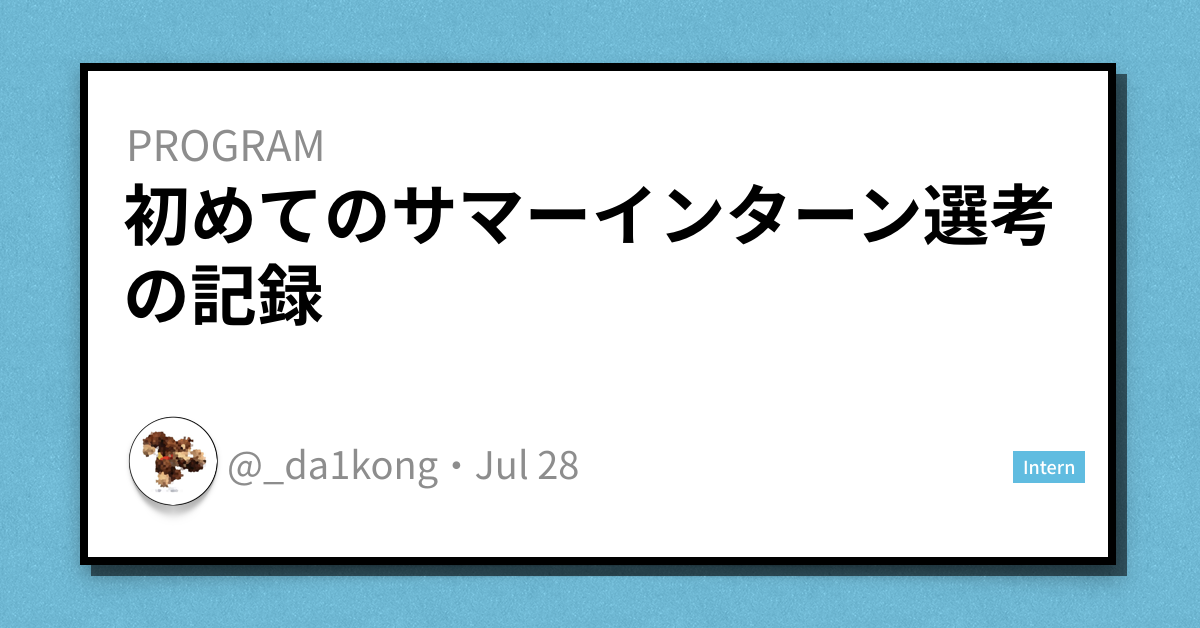
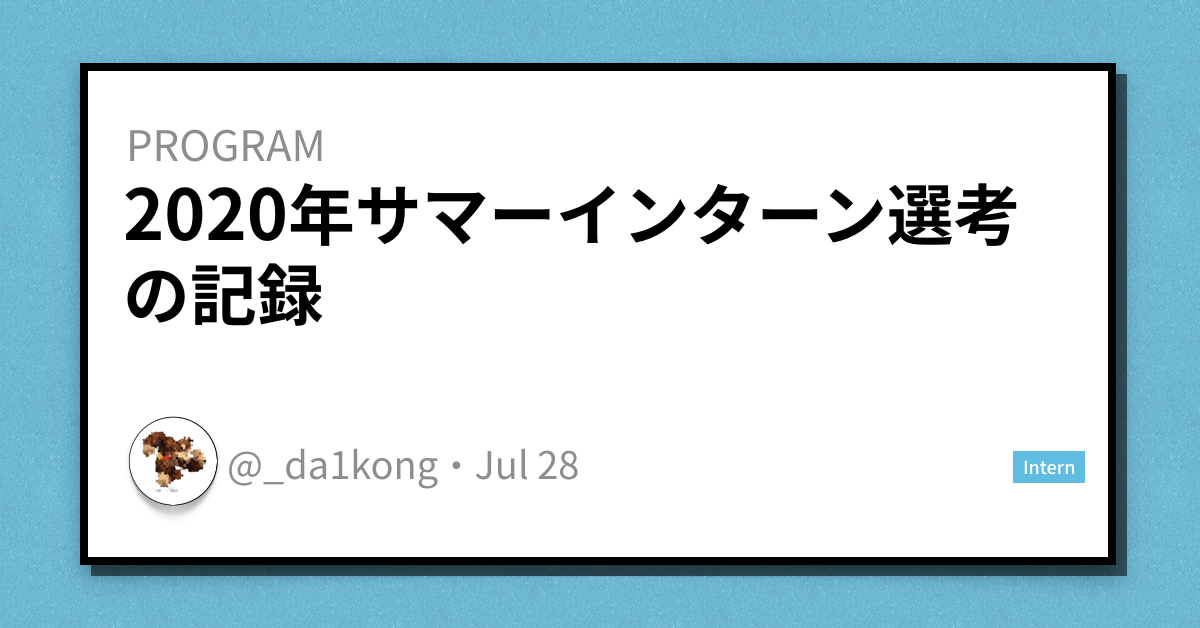
:books: タイトルをわかりやすく修正した

Changed region(s): [[0.0925, 0.2723, 0.8942, 0.3933]]

diff --git a/content/posts/first-summer-intern.md b/content/posts/first-summer-intern.md
@@ -1,7 +1,7 @@
 ---
-title: "初めてのサマーインターン選考の記録"
+title: "2020年サマーインターン選考の記録"
 date: 2020-07-28T09:43:00+09:00
-description: "4月から今までサマーインターンの選考を受けていました。エンジニアとして初めてのインターン選考だったのでかなり手探りでした。ある程度落ち着いたので、選考の記録について共有したいと思います。"
+description: "2020年4月からサマーインターンの選考を受けていました。エンジニアとして初めてのインターン選考だったのでかなり手探りでした。ある程度落ち着いたので、選考の記録について共有します。"
 categories: ["PROGRAM"]
 tags: ["intern"]
 images: ["tcard/first-summer-intern.png"]
@@ -10,7 +10,7 @@ author: ["@_da1kong"]
 
 こんにちは、[だいち](https://twitter.com/_da1kong)です。
 
-4 月から今までサマーインターンの選考を受けていました。エンジニアとして初めてのインターン選考だったのでかなり手探りでした。ある程度落ち着いたので、選考の記録について共有したいと思います。
+2020年4月からサマーインターンの選考を受けていました。エンジニアとして初めてのインターン選考だったのでかなり手探りでした。ある程度落ち着いたので、選考の記録について共有します。
 
 ## 選考当時のスキル、レベル感
 

diff --git a/content/posts/dotenv-js.md b/content/posts/dotenv-js.md
@@ -1,5 +1,5 @@
 ---
-title: Nodejsで環境変数を設定できるdotenvの紹介
+title: 環境変数を楽に設定するdotenvの使い方
 date: 2020-05-26T09:43:00+09:00
 description: "Node.js で API を作っていた時に Production Key や DB のパスワードをハードコーディングして GitHub に上げてしまうのは気が引けた。調べてみると Nodejs には環境変数を簡単に設定できるdotenvというモジュールがあったので使い方のメモです。"
 categories: ["PROGRAM"]
@@ -64,3 +64,7 @@ mongoose
 ```
 
 GitHub に push する際は `.env` を ignore することをお忘れなく。
+
+## 参考
+
+- https://github.com/motdotla/dotenv#readme

diff --git a/content/posts/treasure.md b/content/posts/treasure.md
@@ -1,5 +1,5 @@
 ---
-title: "VOYAGE GROUPのインターン「Treasure」に参加して"
+title: "VOYAGE GROUPのインターン「Treasure」に参加した"
 date: 2020-10-01T09:43:00+09:00
 description: "8/1, 8, 15の土曜日と8/17~28の約1ヶ月の期間、VOYAGE GROUPのTreasureというインターンに参加してきました。"
 categories: ["PROGRAM"]

diff --git a/content/posts/yumemi-intern.md b/content/posts/yumemi-intern.md
@@ -1,5 +1,5 @@
 ---
-title: "ゆめみのインターンに参加して"
+title: "ゆめみのインターンに参加した"
 date: 2020-12-06T09:00:00+09:00
 description: ""
 categories: ["PROGRAM"]
